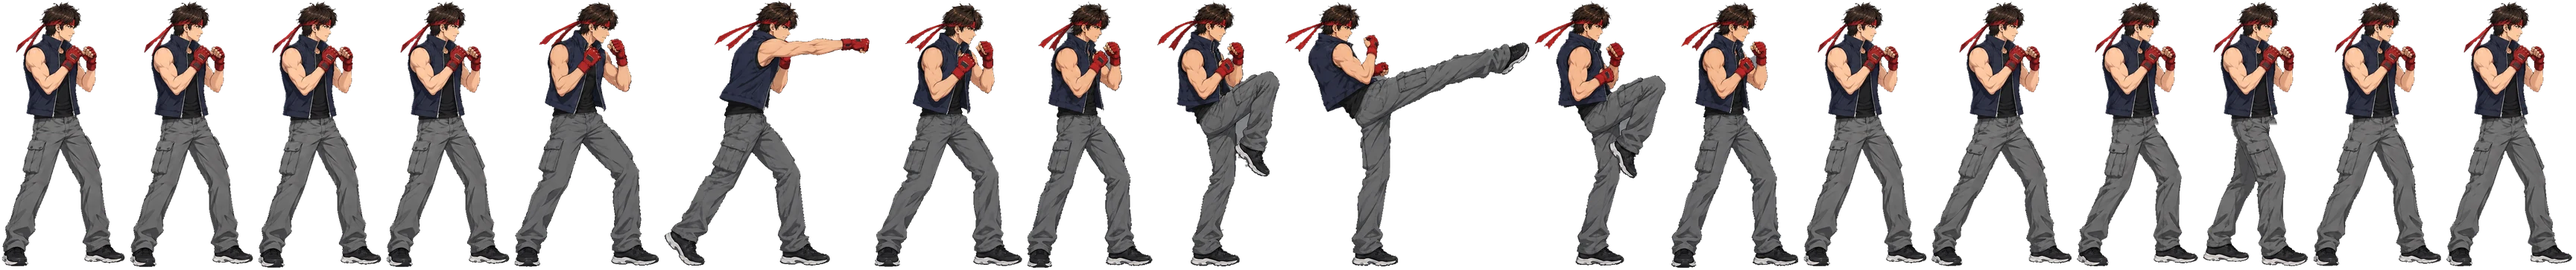
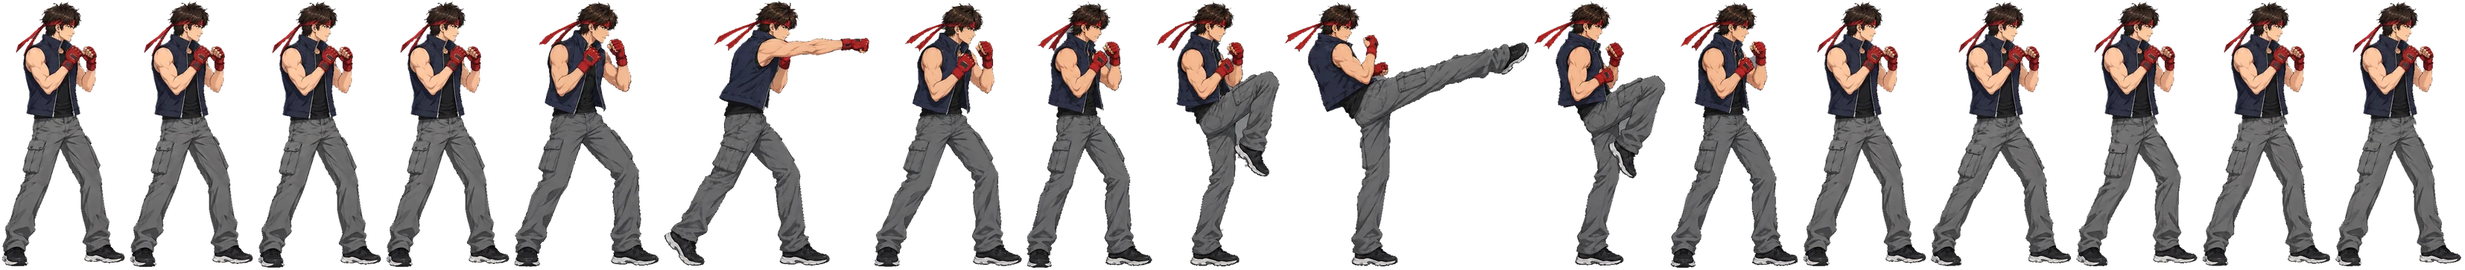
首頁：走路拿掉換腳太快的那一格，改成 5 格滑步
走路圖第 4 格的後腳突然跳到前腳旁邊、下一格又跳回去，鞋子也畫得比較大、比較黑，
看起來像黑塊一閃。拿掉這格後雙腳不會交叉，是格鬥遊戲常見的滑步。

Claude-Session: https://claude.ai/code/session_01RpBj6GpKSTHhCxQHHpgiKf

diff --git a/index.html b/index.html
@@ -67,8 +67,8 @@ a.card:focus-visible{outline:3px solid #3B2D52;outline-offset:3px}
 <script>
 // 首頁試玩：紅巾拳士。圖集 img/hero.webp（待機、出拳、踢腿、走路），每格記錄在圖集的位置與相對腳尖的偏移
 (() => {
-const F = {"idle":[{"x":0,"y":0,"w":170,"h":361,"ox":-167,"oy":-359},{"x":172,"y":0,"w":170,"h":362,"ox":-167,"oy":-360},{"x":344,"y":0,"w":170,"h":363,"ox":-167,"oy":-361},{"x":516,"y":0,"w":170,"h":362,"ox":-167,"oy":-360}],"punch":[{"x":688,"y":0,"w":199,"h":361,"ox":-195,"oy":-358},{"x":889,"y":0,"w":280,"h":360,"ox":-215,"oy":-357},{"x":1171,"y":0,"w":203,"h":361,"ox":-195,"oy":-358}],"kick":[{"x":1376,"y":0,"w":173,"h":363,"ox":-171,"oy":-361},{"x":1551,"y":0,"w":169,"h":361,"ox":-113,"oy":-359},{"x":1722,"y":0,"w":333,"h":361,"ox":-155,"oy":-359},{"x":2057,"y":0,"w":181,"h":360,"ox":-123,"oy":-358},{"x":2240,"y":0,"w":176,"h":363,"ox":-174,"oy":-361}],"walk":[{"x":2418,"y":0,"w":170,"h":361,"ox":-167,"oy":-359},{"x":2590,"y":0,"w":193,"h":361,"ox":-185,"oy":-359},{"x":2785,"y":0,"w":167,"h":361,"ox":-172,"oy":-359},{"x":2954,"y":0,"w":146,"h":360,"ox":-162,"oy":-359},{"x":3102,"y":0,"w":176,"h":360,"ox":-177,"oy":-359},{"x":3280,"y":0,"w":175,"h":361,"ox":-172,"oy":-359}]};
-const MS = {idle: [220, 180, 260, 180], punch: [50, 130, 110], kick: [60, 80, 170, 90, 80], walk: [110, 110, 110, 110, 110, 110]};
+const F = {"idle":[{"x":0,"y":0,"w":170,"h":361,"ox":-167,"oy":-359},{"x":172,"y":0,"w":170,"h":362,"ox":-167,"oy":-360},{"x":344,"y":0,"w":170,"h":363,"ox":-167,"oy":-361},{"x":516,"y":0,"w":170,"h":362,"ox":-167,"oy":-360}],"punch":[{"x":688,"y":0,"w":199,"h":361,"ox":-195,"oy":-358},{"x":889,"y":0,"w":280,"h":360,"ox":-215,"oy":-357},{"x":1171,"y":0,"w":203,"h":361,"ox":-195,"oy":-358}],"kick":[{"x":1376,"y":0,"w":173,"h":363,"ox":-171,"oy":-361},{"x":1551,"y":0,"w":169,"h":361,"ox":-113,"oy":-359},{"x":1722,"y":0,"w":333,"h":361,"ox":-155,"oy":-359},{"x":2057,"y":0,"w":181,"h":360,"ox":-123,"oy":-358},{"x":2240,"y":0,"w":176,"h":363,"ox":-174,"oy":-361}],"walk":[{"x":2418,"y":0,"w":170,"h":361,"ox":-167,"oy":-359},{"x":2590,"y":0,"w":193,"h":361,"ox":-185,"oy":-359},{"x":2785,"y":0,"w":167,"h":361,"ox":-172,"oy":-359},{"x":2954,"y":0,"w":176,"h":360,"ox":-177,"oy":-359},{"x":3132,"y":0,"w":175,"h":361,"ox":-172,"oy":-359}]};
+const MS = {idle: [220, 180, 260, 180], punch: [50, 130, 110], kick: [60, 80, 170, 90, 80], walk: [130, 120, 130, 120, 130]};
 const SCALE = 0.5, CENTER = 97, SPEED = 120, GROUND = 24;   // 圖集 → 畫面縮放、腳尖到身體中心、每秒移動 px、地面離底部 px
 const stage = document.getElementById('stage'), cv = document.getElementById('hero'), ctx = cv.getContext('2d');
 const img = new Image();
